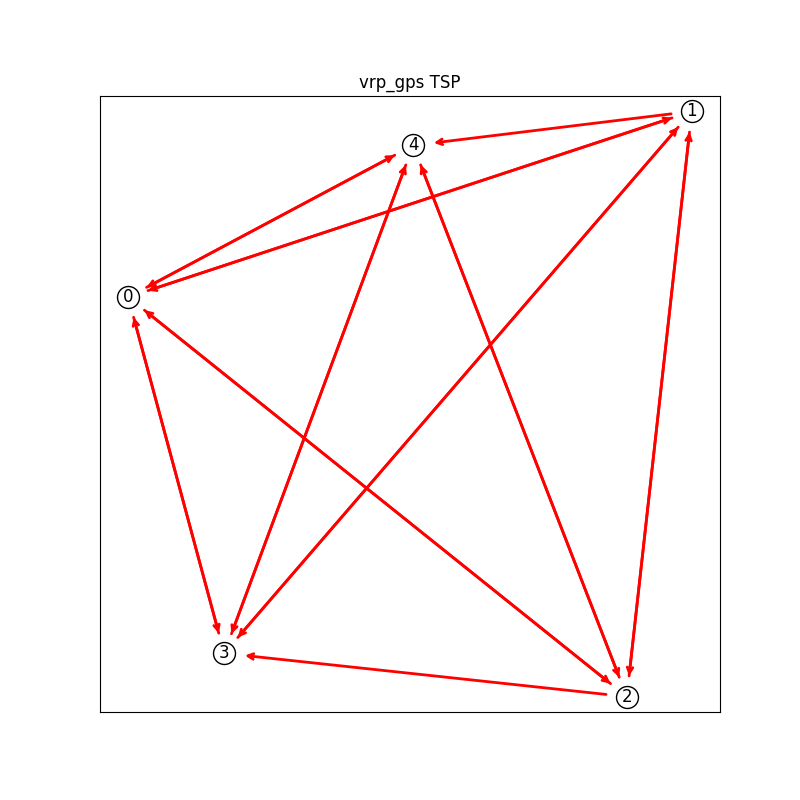
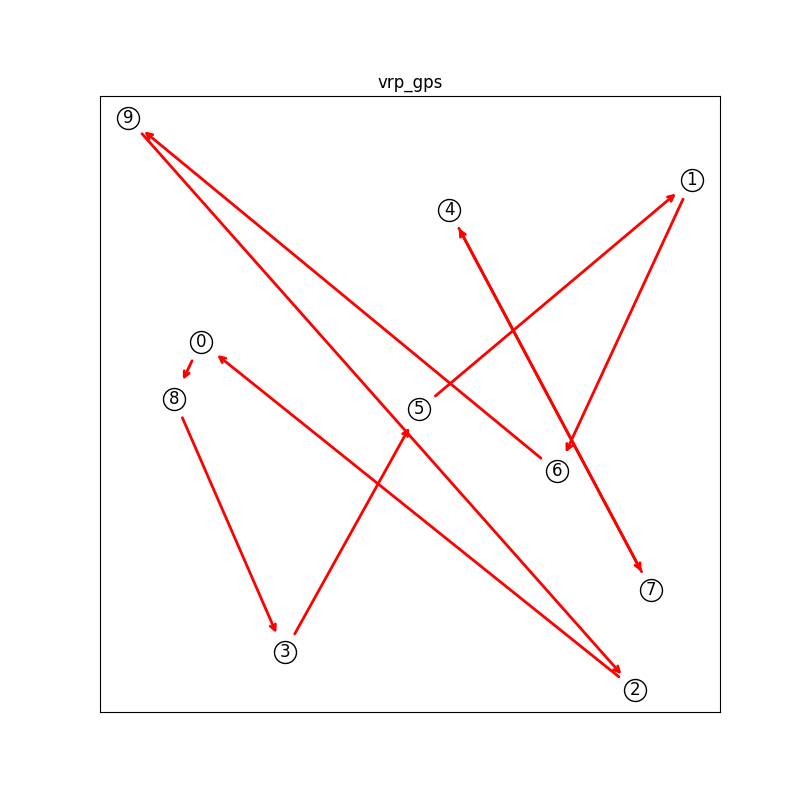
20260628

diff --git a/python/vrp_gps.py b/python/vrp_gps.py
@@ -1,19 +1,33 @@
-#最後の実行
-#energy = -6000
-#energy     = -6000
-#constraint = -6
-#constraint01    = 5
+#energy = 6823
+#objective(D) = 823
+#constraint = 6
+#constraint01    = 0
 #constraint02_1  = 1
 #constraint02_2  = 0
 #constraint03_1  = 1
 #constraint03_2  = 0
 #constraint04    = 0
 #constraint05    = 0
-#constraint06    = 3
-#constraint07    = 0
+#constraint06    = 2
+#constraint07    = 2
 #constraint08    = 0
-#constraint09    = -16
+#constraint09    = 0
 #constraint10    = 0
+#var_count: 930
+#term_count: 24989
+#q=0:
+#0->8
+#1->6
+#3->5
+#4->7
+#5->1
+#7->4
+#8->3
+#
+#q=1:
+#2->10
+#6->9
+#9->2
 
 import pyqbpp as qbpp
 from nodes import nodes, distance 
@@ -28,8 +42,32 @@ def vehicle_distance():
     for q in range(Q):
         for i in range(0, N+1):
             for j in range(1, N+2):
+                if i==j: continue
+                if i==0 and j==N+1: continue
                 L[q] += x[i][j][1][q]*distance(i,j,nodes)
     return L
+
+def make_edges(sol):
+    edges = []
+    for q in range(Q):
+        for i in range(0, N+1):
+            for j in range(1, N+2):
+                if i==j: continue
+                if i==0 and j==N+1: continue
+                if sol(x[i][j][1][q]) == 1:
+                    edges.append((i, j))
+    return edges
+
+def print_edges(sol):
+    for q in range(Q):
+        print(f"q={q}:")
+        for i in range(0, N+1):
+            for j in range(1, N+2):
+                if i==j: continue
+                if i==0 and j==N+1: continue
+                if sol(x[i][j][1][q]) == 1:
+                    print(f"{i}->{j}")
+        print("")
 
 x = qbpp.var("x", shape=(N+2, N+2, R, Q))
 D = qbpp.var("D", between=(0,1000))
@@ -67,6 +105,7 @@ for i in range(0, N+1):
 for q in range(Q):
     c02_1 = 0
     for j in range(1, N+2):
+        if j==N+1: continue
         c02_1 += x[0][j][1][q]
     constraint02_1 += qbpp.constrain(c02_1, equal=1)
 
@@ -76,7 +115,7 @@ for q in range(Q):
 #constraint03_1 すべての車両は終点に到達する
 for q in range(Q):
     c03_1 = 0
-    for i in range(0, N+1):
+    for i in range(1, N+1):
         c03_1 += x[i][N+1][1][q]
     constraint03_1 += qbpp.constrain(c03_1, equal=1)
 
@@ -84,24 +123,29 @@ for q in range(Q):
 #i,jの範囲を変えることで実現
 
 #constraint04 すべての都市において出発できるのは一回だけ
-for i in range(0, N+1):
+for i in range(1, N+1):
     c04 = 0
     for q in range(Q):
         for j in range(1, N+2):
+            if i==j: continue
             c04 += x[i][j][1][q]
     constraint04 += qbpp.constrain(c04, equal=1)
 
 #constraint05 すべての都市において訪問できるのは一回だけ
-for j in range(1, N+2):
+for j in range(1, N+1):
     c05 = 0
     for q in range(Q):
         for i in range(0, N+1):
+            if i==j: continue
+            if i==0 and j==N+1: continue
             c05 += x[i][j][1][q]
     constraint05 += qbpp.constrain(c05, equal=1)
 
 #constraint06 どの車両から見ても訪問順序は同じ
-for i in range(0, N+1):
-    for j in range(1, N+2):
+for i in range(1, N+1):
+    for j in range(1, N+1):
+        if i==j: continue
+        if i==0 and j==N+1: continue
         for q in range(Q-1):
             c06 = (
                 (x[i][j][0][q]+x[i][j][1][q]+x[i][j][3][q])
@@ -110,23 +154,57 @@ for i in range(0, N+1):
             constraint06 += qbpp.constrain(c06, equal=0)
 
 #constraint07 都市iから都市jに行ったら都市jは他の都市kに行かなければならない
-for i in range(0, N+1):
-    for j in range(1, N+2):
-        for q in range(Q):
-            sum_k = 0
-            for k in range(N+2):
-                sum_k += x[j][k][1][q]
-            c07 = x[i][j][1][q]*(1-sum_k)
-            constraint07 += qbpp.constrain(c07, equal=0)
+#for i in range(0, N+1):
+#    for j in range(1, N+2):
+#        if i==j: continue
+#        if i==0 and j==N+1: continue
+#        for q in range(Q):
+#            sum_k = 0
+#            for k in range(1, N+2):
+#                if j==k: continue
+#                sum_k += x[j][k][1][q]
+#            c07 = x[i][j][1][q]*(1-sum_k)
+#            constraint07 += qbpp.constrain(c07, equal=0)
+for q in range(Q):
+    for j in range(1, N+1):      # 顧客のみ
+        incoming = 0
+        outgoing = 0
+
+        # jに入る辺
+        for i in range(0, N+1):
+            if i == j:
+                continue
+            incoming += x[i][j][1][q]
+
+        # jから出る辺
+        for k in range(1, N+2):
+            if k == j:
+                continue
+            outgoing += x[j][k][1][q]
+
+        constraint07 += qbpp.constrain(
+            incoming - outgoing,
+            equal=0
+        )
 
 #constraint08 訪問順序はi->jかj->iのいずれか
-#mlで置換 後述
-
+for i in range(1, N+1):
+    for j in range(i+1, N+1):
+        c_08 = (
+            x[i][j][0][1]
+            + x[i][j][1][1]
+            + x[i][j][3][1]
+            + x[j][i][0][1]
+            + x[j][i][1][1]
+            + x[j][i][3][1]
+        )
+        constraint08 += qbpp.constrain(c_08, equal=1)
 
 #constraint09 部分巡回路はあってはいけない
 for i in range(1, N+1):
     for j in range(1, N+1):
         for k in range(1, N+1):
+            if i==j and j==k and k==i: continue
             a_ij = x[i][j][0][1] + x[i][j][1][1] + x[i][j][3][1]
             a_jk = x[j][k][0][1] + x[j][k][1][1] + x[j][k][3][1]
             a_ik = x[i][k][0][1] + x[i][k][1][1] + x[i][k][3][1]
@@ -137,13 +215,13 @@ for q in range(Q):
     constraint10 += qbpp.constrain(L[q] - D, between=(None, 0))
 
 constraint = (
-    constraint01
+    10*constraint01
     + constraint02_1
     + constraint02_2
     + constraint03_1
     + constraint03_2
-    + constraint04
-    + constraint05
+    + 10*constraint04
+    + 10*constraint05
     + constraint06
     + constraint07
     + constraint08
@@ -153,8 +231,25 @@ constraint = (
 
 P = 1000
 
-f = objective + P*constraint
+self_loop = qbpp.sum(
+    [
+        x[i][i][r][q]
+        for i in range(N+2)
+        for r in range(R)
+        for q in range(Q)
+    ]
+)
 
+f = objective + P*constraint + self_loop
+
+ml.update(
+    {
+        x[i][i][r][q]: 0
+        for i in range(N+2)
+        for r in range(R)
+        for q in range(Q)
+    }
+)
 
 
 g = qbpp.replace(f, ml)
@@ -163,13 +258,11 @@ f.simplify_as_binary()
 g.simplify_as_binary()
 
 solver = qbpp.ABS3Solver(g)
-sol = solver.search(time_limit=60.0)
-
+sol = solver.search(time_limit=100.0)
 full_sol = qbpp.Sol(f).set(sol, ml)
 
 print(f"energy = {full_sol(f)}")
-
-print(f"energy     = {full_sol(f)}")
+print(f"objective(D) = {full_sol(D)}")
 print(f"constraint = {full_sol(constraint)}")
 
 
@@ -190,3 +283,9 @@ constraints = {
 
 for name, expr in constraints.items():
     print(f"{name:15} = {full_sol(expr)}")
+print(f"var_count: {sol.info['var_count']}")
+print(f"term_count: {sol.info['term_count']}")
+
+edges = make_edges(full_sol)
+plot_edges(nodes, edges, "vrp_gps")
+print_edges(full_sol)

diff --git a/python/nodes.py b/python/nodes.py
@@ -1,7 +1,7 @@
 import math
 import random
 
-n = 5
+n = 10
 seed = 1
 random.seed(seed)
 